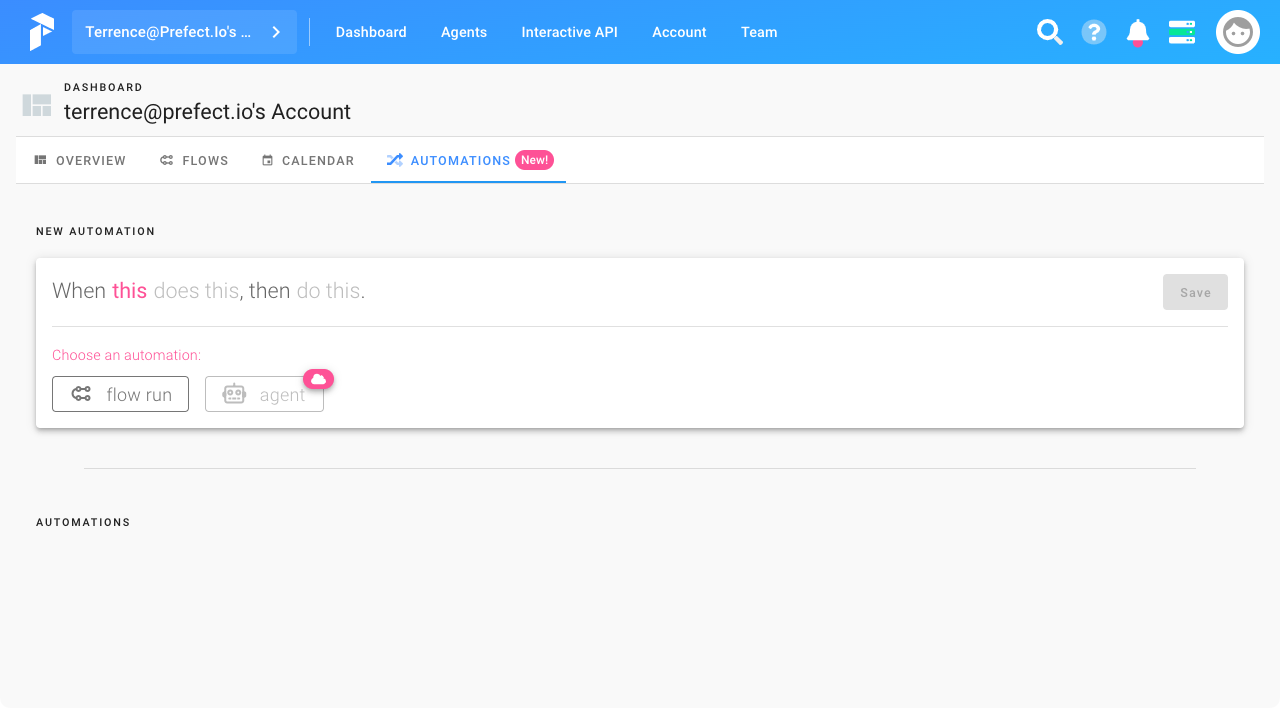
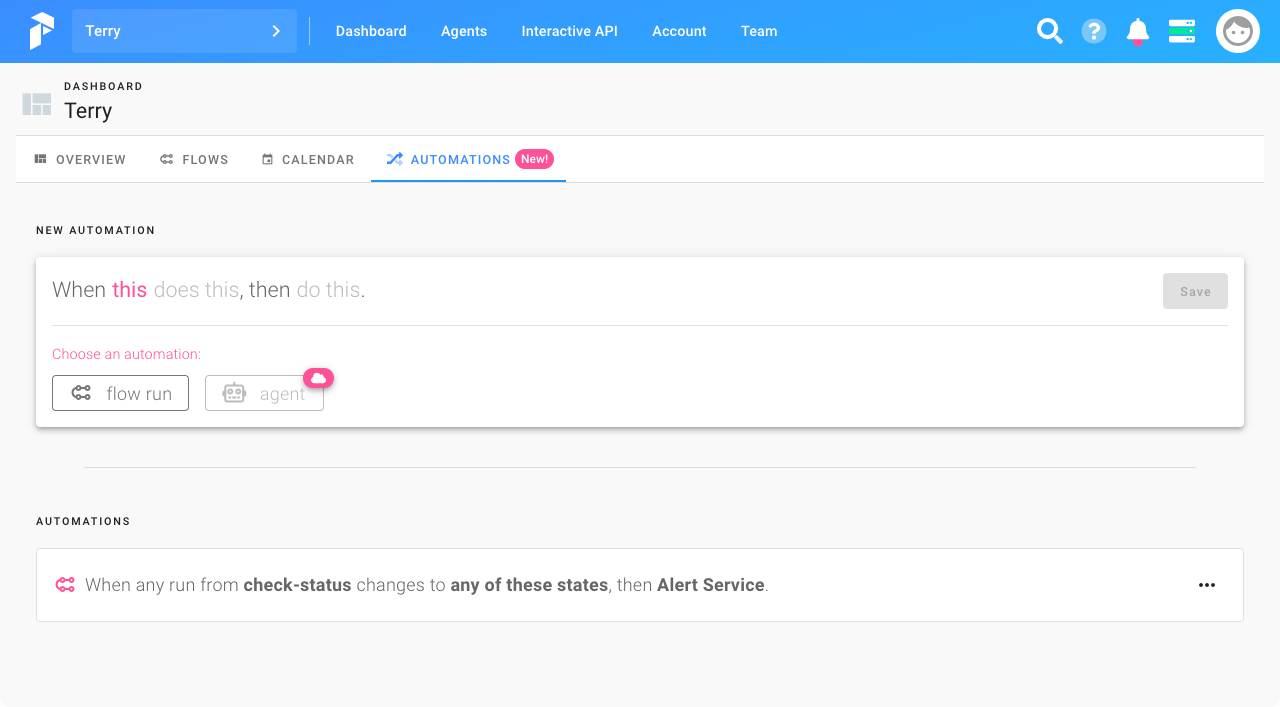
Automations UI documentation with screenshots

diff --git a/docs/orchestration/ui/automations.md b/docs/orchestration/ui/automations.md
@@ -8,6 +8,48 @@ The UI's Automation page provides the ability to create new automations &mdash; 
 
 Automations are only available in Prefect Cloud, and some automation features are limited to Prefect Cloud Standard plan and above.
 
-See the [Automations](/concepts/automations) documentation for details on automation features and configuration.
+See the [Automations](/orchestration/concepts/automations) documentation for details on automation features and configuration.
 
-![](/orchestration/ui/automations_ui.png)
+To create, edit, or review available automations, click **Automations** in the Prefect Cloud dashboard.
+
+![Screenshot showing the automations page of Prefect Cloud](/orchestration/ui/automations_ui.png)
+
+The **New Automation** area provides a mechanism for defining new automations.
+
+The **Automations** area provides a listing of previously created automations.
+
+## New Automations
+
+The **New Automation** tool lets you define an automation using common "if...then" logic. Simply choose options to specify the event source, event type, and action. If an option is grayed out and shows a cloud tag, it requires upgrading your Prefect Cloud plan to the Standard plan or higher.
+
+![Screenshot showing the initial automation event options](/orchestration/ui/automations_plan.png)
+
+As you build the automation definition, the elements display as a description of the automation.
+
+![Screenshot showing the automation state trigger options](/orchestration/ui/automations_new.png)
+
+At the **Choose an action** step you can: 
+
+- Select a built-in Prefect messaging action by clicking the **+ New** button.
+- Select a system action such as pausing the schedule (**Standard plan and above**).
+- Select a previously defined action such as the [PagerDuty integration](/orchestration/integrations/pagerduty.html).
+
+Click **Save** to save your automation.
+
+![Screenshot showing the automation actions options](/orchestration/ui/automations_actions.png)
+
+If you click the **+ New** button to select a messaging action, you can select from the available built-in messaging triggers.
+
+![Screenshot showing the automation messaging action options](/orchestration/ui/automations_msg.png)
+
+## Automations
+
+The **Automations** area provides a listing of previously defined automations. 
+
+![Screenshot showing the listing of defined automations](/orchestration/ui/automations_list.png)
+
+To delete an automation, click the **...** icon next to an automation, then click **Delete**.
+
+To edit an automation, click anywhere on the automation tile and you'll enable a definition wizard similar to creating a new automation.
+
+![Screenshot showing an automation selected for editing](/orchestration/ui/automations_edit.png)
